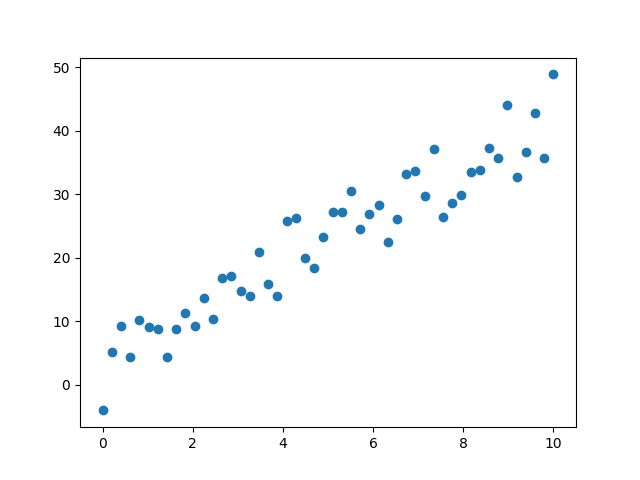
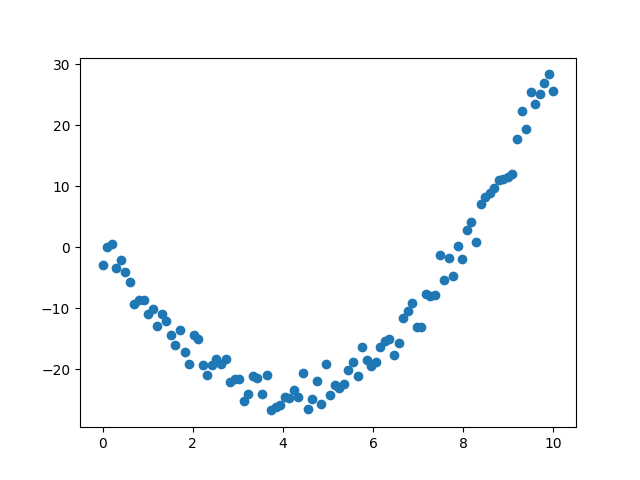
1224

diff --git a/tenser_keros/tenserflow.py b/tenser_keros/tenserflow.py
@@ -1,0 +1,48 @@
+import tensorflow as tf
+import numpy as np
+from visual import *
+
+import os
+os.environ['TF_CPP_MIN_LOG_LEVEL'] = '2'
+
+# 난수 생성
+np.random.seed(100)
+tf.random.set_seed(100)
+
+def main():    
+    # 비선형 데이터 생성(x_data 0부터 10까지 100개의 데이터 생성)
+    x_data = np.linspace(0, 10, 100)
+    y_data = 1.5 * x_data**2 -12 * x_data + np.random.randn(*x_data.shape)*2 + 0.5
+    
+    '''
+    다층 퍼셉트론 모델
+    '''
+    model = tf.keras.models.Sequential([
+    tf.keras.layers.Dense(20, input_dim = 1 ,activation='relu'),
+    tf.keras.layers.Dense(20, activation='relu'),
+    tf.keras.layers.Dense(1)
+])
+    
+    '''
+    2. 모델 학습 방법을 설정합니다.
+    '''
+    model.compile(loss='mean_squared_error', optimizer='adam')
+    
+    '''
+    3. 모델을 학습시킵니다.
+    ''' 
+    
+    history = model.fit(x_data, y_data, epochs=500, verbose=2)
+    
+    '''
+    4. 학습된 모델을 사용하여 예측값 생성 및 저장
+    '''
+    
+    predictions = model.predict(x_data)
+    
+    Visualize(x_data, y_data, predictions)
+    
+    return history, model
+
+if __name__ == '__main__':
+    main()

diff --git a/tenser_keros/visual.py b/tenser_keros/visual.py
@@ -1,0 +1,13 @@
+import matplotlib.pyplot as plt
+import matplotlib as mpl
+from mpl_toolkits.mplot3d import Axes3D
+
+
+def Visualize(x_data, y_data, predictions):
+    # 데이터 출력
+    plt.scatter(x_data,y_data)
+    plt.savefig('data.png')
+
+    # 곡선형 분포 데이터와 예측값 출력
+    plt.scatter(x_data,predictions, color='red')
+    plt.savefig('prediction.png')
